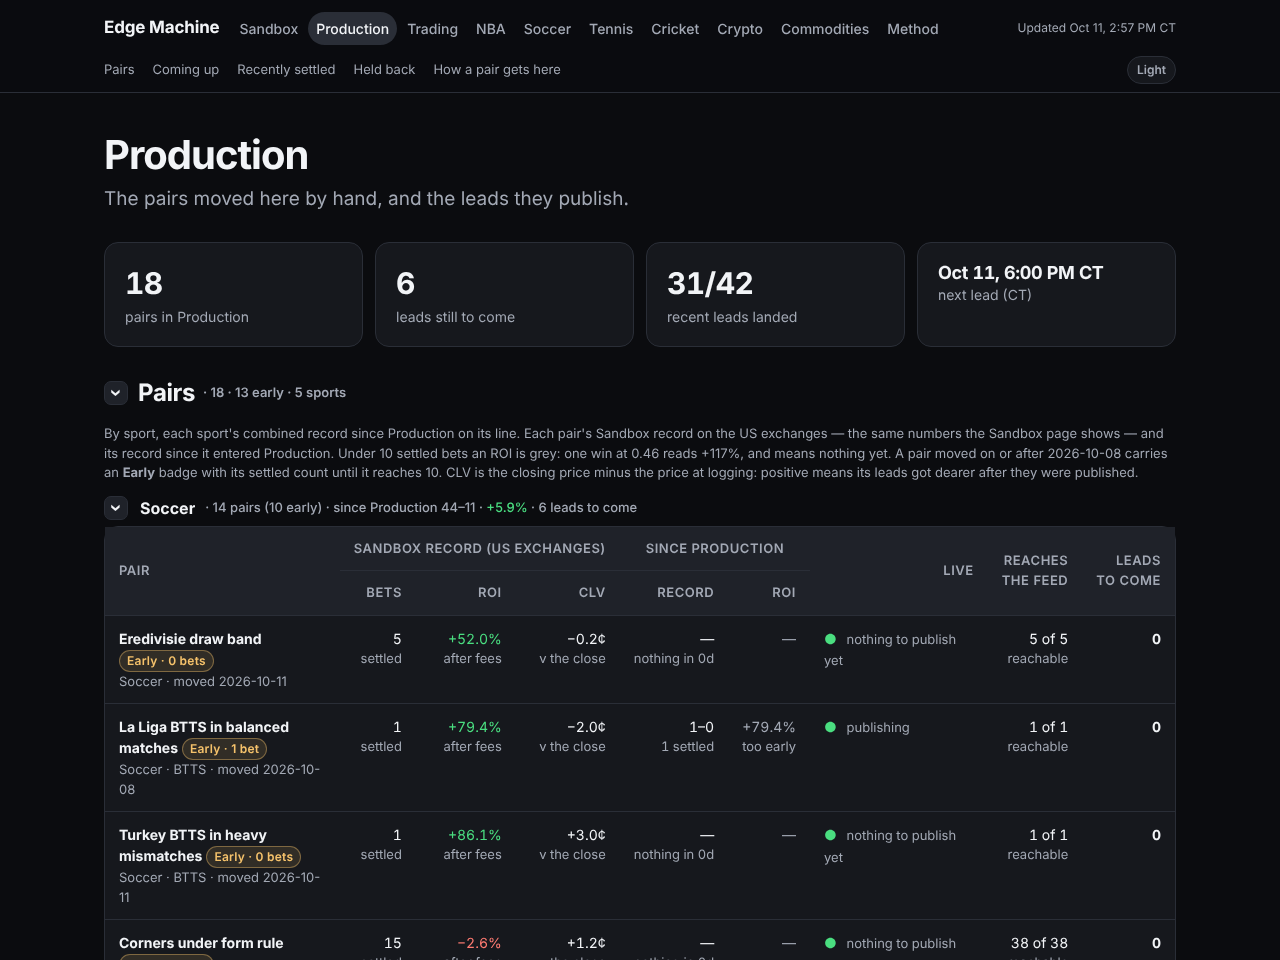
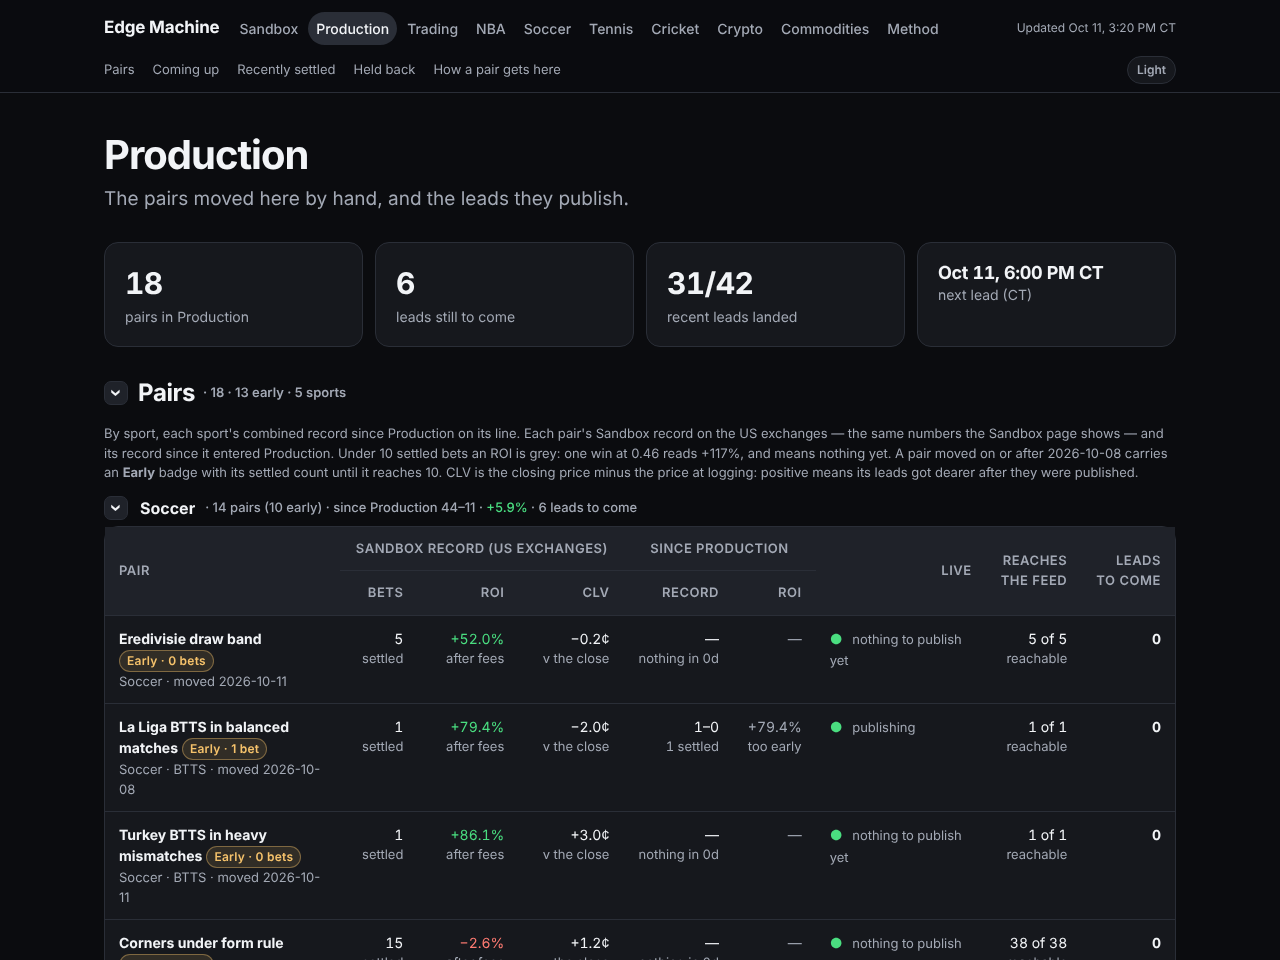
Production pairs table: the name column keeps its share on a wide font
The PR job's runner draws the pages in a fallback font wider than Inter.
The pair's name may break anywhere, so the auto layout gave its column
whatever the eight number columns left: the name ran to six lines and the
first row measured 146px. The name column now asks for its usual 22% and
keeps a 220px floor, the Live column takes 170px and no more, and when a
wide font still needs room the grey sub-lines under the numbers give way a
word at a time; the table never grows past its card, where the header
could not stick. On Inter nothing changes.

The design-system test reports the platform font and the column widths
with the row height, and checks that every sport's pairs table fits its
card and that the name column keeps its floor.

Claude-Session: https://claude.ai/code/session_01BwBZ4RrAiNDviah8ZTJFAw

diff --git a/public_site/site.css b/public_site/site.css
@@ -2786,7 +2786,16 @@ details.fold.later > summary { margin-top: 12px; }
 .fig { font-variant-numeric: tabular-nums; text-align: right; }
 .fig .sub, .num .sub { display: block; font-size: 13px; color: var(--mut); white-space: normal; }
 /* The Production light: the dot and its word on one line. */
-td.light { white-space: normal; text-align: left; min-width: 150px; }
+td.light { white-space: normal; text-align: left; width: 170px; min-width: 150px; }
+/* The pair's name may break anywhere (above), so the auto layout would give
+   its column whatever the eight number columns leave. On a runner whose
+   fallback font is wider than Inter that left the name a few words per line
+   and the row six lines tall. The name column asks for its usual share and
+   keeps a floor, the light column takes its 170px and no more, and when a
+   wide font still needs room the number cells' grey sub-lines give way a
+   word at a time; the table never grows past its card. */
+#pairs td[data-l="Pair"] { width: 22%; min-width: 220px; }
+#pairs td.num .sm { white-space: normal; }
 td.light b { margin-right: 6px; }
 /* The second header row: section nav or breadcrumb on the left, the theme
    toggle on the right. The nav keeps its own phone scrolling. */

diff --git a/test_design_system.py b/test_design_system.py
@@ -133,6 +133,9 @@ for i in range(6):
                        logged=(start - timedelta(hours=2)).isoformat(), date=start.date().isoformat(),
                        settled=(start + timedelta(hours=3)).isoformat(), price_a=0.6, price_b=0.4,
                        side_a="Home", side_b="Away", label=f"Home v Away {i}", market_id=f"m{i}", url="https://kalshi.com/x"))
+# The pair's light is red with the longest reason the column carries ("6 of 6 recent
+# bets cannot be published — the feed drops them silently"), so the row the browser
+# measures below is the tallest a pair row gets.
 prod = P.page({"quotes": quotes}, {"pairs": pairs}, {"leads": {}, "pairs": {}}, "", now=NOW)
 row = re.search(r'<tr>\s*<td><b>Over 1\.5 form rule.*?</tr>', prod, re.S).group(0)
 light = re.search(r'<td class="num light">(.*?)</td>', row, re.S)
@@ -245,14 +248,33 @@ if playwright is not None:
             const t = document.querySelector('#pairs table'); const tr = t.tBodies[0].rows[0];
             const cell = tr.querySelector('td.light'); const dot = cell.querySelector('b'); const word = cell.querySelector('span');
             const first = word.getClientRects()[0];   // the word's first line box, if it wraps
+            const tables = [...document.querySelectorAll('#pairs table')];
             return { rowH: Math.round(tr.getBoundingClientRect().height),
                      sameLine: Math.abs(dot.getBoundingClientRect().top - first.top) < 6
                                && first.left >= dot.getBoundingClientRect().right - 1,
-                     gap: Math.round(t.tBodies[0].rows[0].getBoundingClientRect().top - t.tHead.getBoundingClientRect().bottom) };
+                     gap: Math.round(t.tBodies[0].rows[0].getBoundingClientRect().top - t.tHead.getBoundingClientRect().bottom),
+                     cols: [...tr.cells].map(c => Math.round(c.getBoundingClientRect().width)),
+                     lines: [...tr.cells].map(c => { const r = document.createRange(); r.selectNodeContents(c);
+                                                     return new Set([...r.getClientRects()].map(b => Math.round(b.top))).size; }),
+                     pair: tr.cells[0].textContent.trim().replace(/\s+/g, ' '),
+                     // every sport's pairs table fits its card: no in-card scrolling, where the header cannot stick
+                     fits: tables.every(x => x.getBoundingClientRect().width <= x.parentElement.getBoundingClientRect().width + 1
+                                             && !x.parentElement.classList.contains('scroll-x')) };
         }""")
-        ok(got["rowH"] <= 140, f"a Production pair row is under 140px tall ({got['rowH']}px, was 205px)")
+        # The runner's fonts differ from a desktop's; the font the row was drawn with goes in the report.
+        try:
+            cdp = page.context.new_cdp_session(page)
+            cdp.send("DOM.enable"); cdp.send("CSS.enable")
+            root = cdp.send("DOM.getDocument", {"depth": -1})["root"]["nodeId"]
+            node = cdp.send("DOM.querySelector", {"nodeId": root, "selector": "body"})["nodeId"]
+            got["font"] = [f["familyName"] for f in cdp.send("CSS.getPlatformFontsForNode", {"nodeId": node})["fonts"]]
+        except Exception as e:  # the report is richer with the font, the checks do not need it
+            got["font"] = f"unknown ({type(e).__name__})"
+        ok(got["rowH"] <= 140, f"a Production pair row with the longest light reason is under 140px tall ({got['rowH']}px, was 205px; font {got['font']}, columns {got['cols']}, lines {got['lines']}, pair {got['pair']!r})")
         ok(got["sameLine"], f"the light's word sits beside its dot ({got})")
         ok(abs(got["gap"]) <= 1, f"no empty band between the header rows and the first pair ({got['gap']}px)")
+        ok(got["fits"], f"every pairs table fits its card, whatever the font (columns {got['cols']})")
+        ok(got["cols"][0] >= 220, f"the pair's name keeps its column ({got['cols'][0]}px, floor 220)")
         page.close()
         page = browser.new_page(viewport={"width": 1280, "height": 900})
         page.route("http://fixture.local/**", serve(pages["cricket.html"]))
